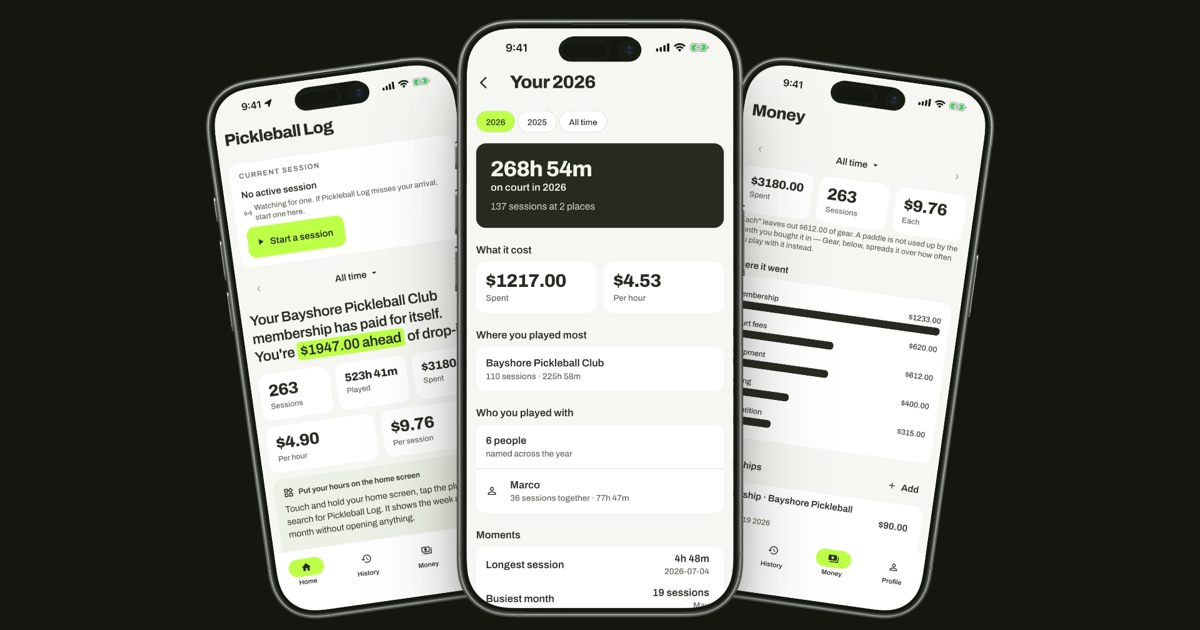
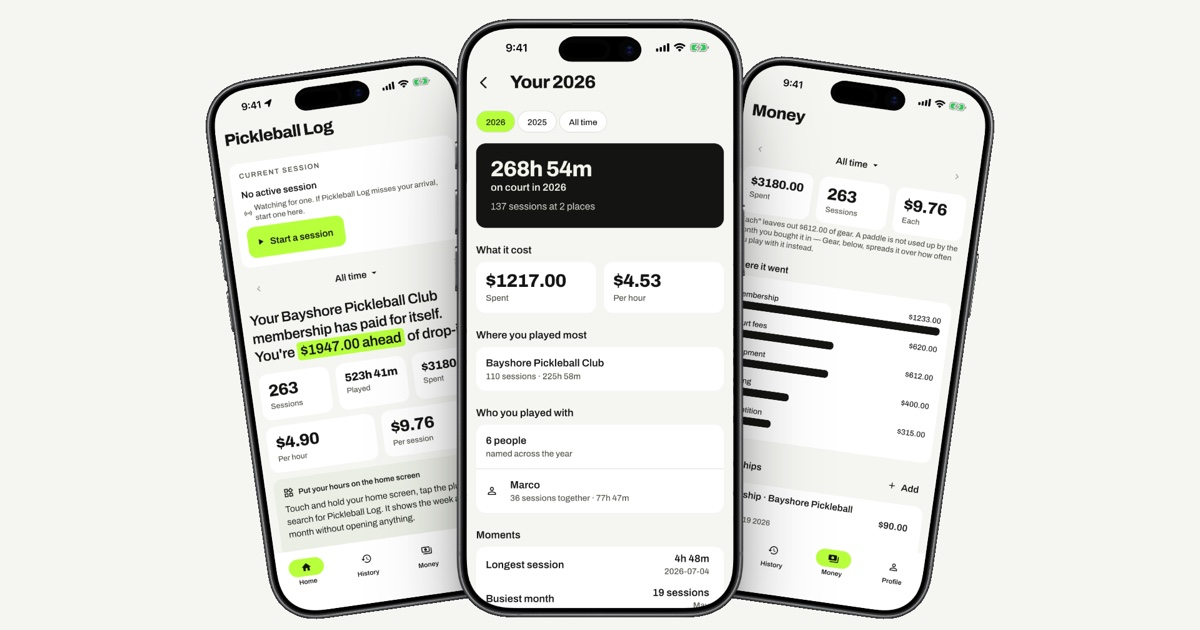
The phones sit on the page, not on a black slab
The dark band read as a slab dropped onto a light page. The mockup's ground
was only ever a flat colour behind the phones, so it comes out altogether:
design/hero-ground.swift floods it to transparency from the border inward,
and the phones now sit directly on whatever the page is.

Flooding rather than keying on colour matters here — the phone bezels are
near-black themselves, so a colour key would punch holes in them. A flood
stops at the first lit pixel of each phone's edge. The ground turned out to
be hard black with no shadow or glow baked in, which is what makes this
clean; that was measured before relying on it.

The shadow is now a CSS drop-shadow, so it follows the phone silhouettes
rather than the rectangle of the image, and one asset serves both themes
instead of a recoloured one per theme.

The og:image keeps an opaque ground — transparency renders unpredictably in
a chat or social feed — on the light page colour rather than the black.

diff --git a/style.css b/style.css
@@ -136,14 +136,18 @@ p.center { max-width: 34rem; margin-left: auto; margin-right: auto; }
   font-size: 1.2rem;
 }
 
-/* The three-phone shot. Its ground is exactly --inv-bg, so the image needs no
-   panel behind it — it is its own panel. Regenerate with design/hero-olive.swift
-   if the source mockup changes; a pure-black ground would not sit with the
-   privacy panel below it. */
+/* The three-phone shot. The mockup's ground is flooded out to transparency by
+   design/hero-ground.swift in the app repository, so the phones sit directly on
+   the page and one asset serves both themes. The shadow is a drop-shadow rather
+   than a box-shadow because it has to follow the phone silhouettes, not the
+   rectangle of the image. */
 .hero-band { margin: 0 0 1rem; }
 .hero-band img {
   display: block; width: 100%; height: auto;
-  border-radius: 16px;
+  filter: drop-shadow(0 18px 26px rgba(20, 23, 15, .17));
+}
+@media (prefers-color-scheme: dark) {
+  .hero-band img { filter: drop-shadow(0 18px 30px rgba(0, 0, 0, .6)); }
 }
 
 /* --- The App Store badge --------------------------------------------

diff --git a/index.html b/index.html
@@ -63,7 +63,7 @@
 </section>
 
 <div class="hero-band">
-  <img src="img/hero-3up.jpg" width="1600" height="916"
+  <img src="img/hero-3up.png" width="1500" height="859"
        alt="Three iPhones showing Pickleball Log: the home screen with a membership verdict, Your 2026, and the Money tab.">
 </div>
 
